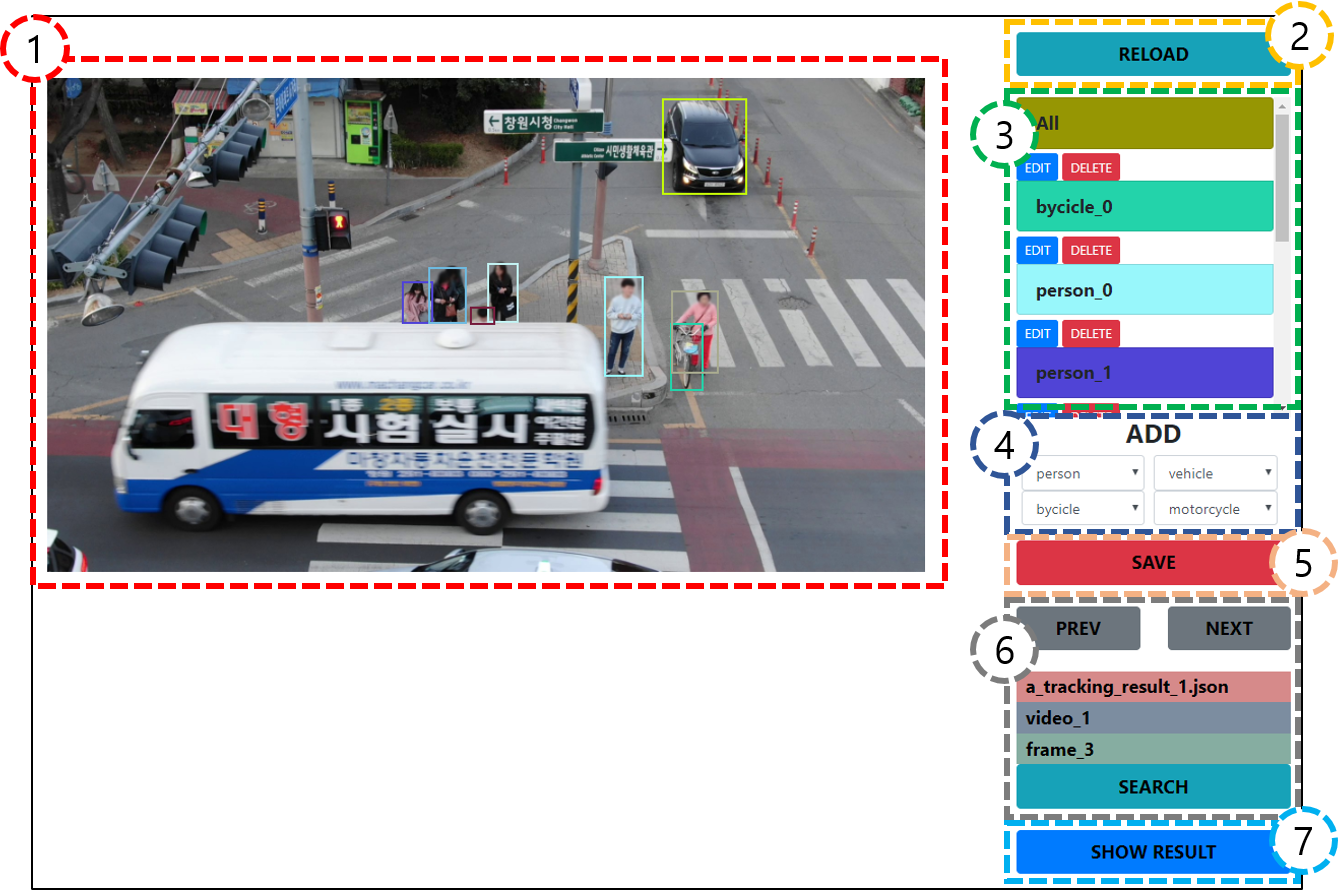
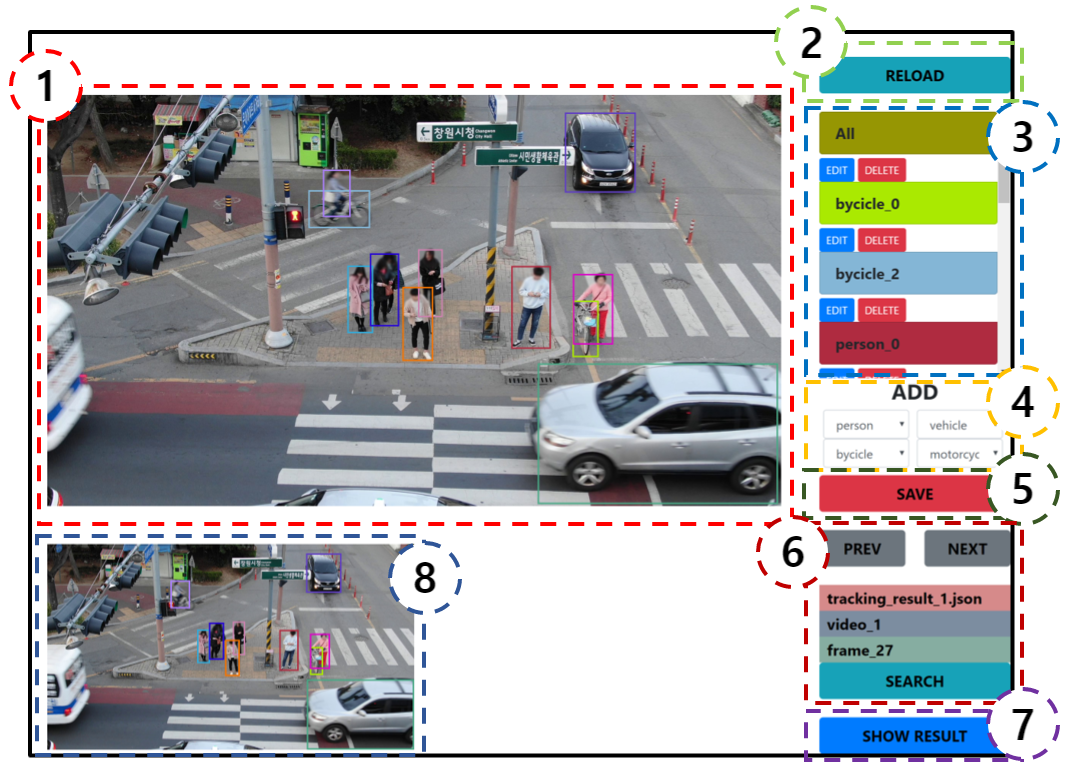
update 1

diff --git a/templates/index.html b/templates/index.html
@@ -1,12 +1,27 @@
 <html>
     <style>
         #content{
+            width: 100%;
             margin-top: 30px;
-            margin-left: 200px;
+            margin-left: 10px;
+        }
+        #imgcontent{
+            width:960px;
         }
         #canvas {
             width: 960px;
             height: 540px;
+           z-index:0;
+           background-repeat: no-repeat;
+           background-size: contain;
+            margin-top: 50px;
+            margin-left: 10px;
+            float:left;
+           }
+
+        #pre_canvas {
+            width: 480px;
+            height: 270px;
            z-index:0;
            background-repeat: no-repeat;
            background-size: contain;
@@ -20,11 +35,11 @@
             z-index:2;
         }
         #sidebar {
-            width:300px;
+            width:250px;
             height: 540px;
-            float:left;
-            
-            margin-left:100px;
+            position: absolute; /*or fixed*/
+            right: 0px;
+            margin-left:20px;
         }
         #detections {
             height:350px;
@@ -43,7 +58,7 @@
 
         #mainselection {
             overflow:hidden;
-            width:350px;
+            width:100%;
             background: rgb(214, 138, 138) ;
         }
 
@@ -54,83 +69,89 @@
 
     </style>
 <link rel="stylesheet" href="https://maxcdn.bootstrapcdn.com/bootstrap/4.0.0/css/bootstrap.min.css" integrity="sha384-Gn5384xqQ1aoWXA+058RXPxPg6fy4IWvTNh0E263XmFcJlSAwiGgFAW/dAiS6JXm" crossorigin="anonymous">
+
 <div id="content">
+    <div id="imgcontent">
         <div id="canvas">
         </div>
 
-        <div id="sidebar">
-            <button class="btn btn-lg btn-info" onclick="reload()" style="width: 100%;color:black;font-weight: bold;">RELOAD</button>
-            <br><br>
-            
-            <div class="list-group" id="detections">
-                <div style="margin-bottom: 5px;">
-                    <p id="all_item" onclick="activate_all()" class="list-group-item" style="background-color:rgb(150, 150, 3);">All</p>
-                </div>
-                {% for detection in detections %}
-                <div id="{{detection[5]}}_item_div" style="margin-bottom: 5px;">
-                    <button class="btn btn-sm btn-primary" onclick="modify_bbox('{{detection[5]}}')">EDIT</button>
-                    <button class="btn btn-sm btn-danger" onclick="del_bbox('{{detection[5]}}')">DELETE</button>
-                    <p id="{{detection[5]}}_item" onclick="activate_tid('{{detection[5]}}', {{detection[6]}})" class="list-group-item" data-box="{{detection[6]}}">
-                        <span style="background-color:rgb({{detection[6][0]}}, {{detection[6][1]}}, {{detection[6][2]}});">{{detection[5]}}</span>
-                    </p>
-                </div>
-                {% endfor %}
-            </div>
-            
-            <h3 style="font-weight: bold; text-align: center;">ADD</h3>
-            {% for tid_type in tid_types %}
-            <div style="width: 45%;float:left;margin-left:5px; margin-right: 5px;">
-                <select class="form-control" id="{{tid_type}}_select" onchange="add_bbox('{{tid_type}}')" style="width:100%;">
-                    <option disabled selected value>{{tid_type}}</option>
-                    <option value="{{tid_type}}_new">{{tid_type}}_new</option>
-                    {% for i in tid_types[tid_type] %}
-                        <option value="{{i}}">{{i}}</option>
-                    {% endfor %}
-                </select>
-            </div>
-            {% endfor %}
-            <br><br>
-            
-            <button class="btn btn-lg btn-danger" onclick="save()" style="width: 100%;color:black;font-weight: bold;margin-top: 10px;">SAVE</button>
-            <br><br>
-
-            <button class="btn btn-lg btn-secondary" onclick="prev()" style="width: 45%;color:black;font-weight: bold;">PREV</button>
-            <button class="btn btn-lg btn-secondary" onclick="next()" style="width: 45%;color:black;font-weight: bold;float:right">NEXT</button>
-            <br><br>
-            
-            <div id="mainselection" style="width:300px;">
-                <select id="json_selection" onchange="jsonChanged()" style="width: 100%;">
-                <option disabled selected value>Json File</option>
-                {% for i in json_list%}
-                <option value="{{i}}">{{i}}</option>
-                {% endfor %}
-                </select>
-            </div>
-
-            <div id="mainselection" style="width:300px;background: rgb(124, 141, 160)">
-                <select id="vidx_selection" style="width: 100%;">
-                <option disabled selected value>Video Idx</option>
-                {% for i in vidx_list%}
-                <option value="{{i}}">video_{{i}}</option>
-                {% endfor %}
-                </select>
-            </div>
-
-            <div id="mainselection" style="width:300px;background: rgb(134, 173, 161)">
-                <select id="fidx_selection" style="width: 100%;">
-                <option disabled selected value>frame Idx</option>
-                {% for i in fidx_list%}
-                <option value="{{i}}">frame_{{i}}</option>
-                {% endfor %}
-                </select>
-            </div>
-
-            <button class="btn btn-lg btn-info" onclick="search_json_vidx_fidx()" style="width: 100%;color:black;font-weight: bold;">SEARCH</button>
-            <br><br>
-
-            <button class="btn btn-lg btn-primary" onclick="location.href='/fin?json={{jsonfile}}&vidx={{vidx}}'" style="width: 100%;color:black;font-weight: bold;">SHOW RESULT</button>
+        <div id="pre_canvas">
         </div>
     </div>
+        
+    <div id="sidebar">
+        <button class="btn btn-lg btn-info" onclick="reload()" style="width: 100%;color:black;font-weight: bold;">RELOAD</button>
+        <br><br>
+        
+        <div class="list-group" id="detections">
+            <div style="margin-bottom: 5px;">
+                <p id="all_item" onclick="activate_all()" class="list-group-item" style="background-color:rgb(150, 150, 3);">All</p>
+            </div>
+            {% for detection in detections %}
+            <div id="{{detection[5]}}_item_div" style="margin-bottom: 5px;">
+                <button class="btn btn-sm btn-primary" onclick="modify_bbox('{{detection[5]}}')">EDIT</button>
+                <button class="btn btn-sm btn-danger" onclick="del_bbox('{{detection[5]}}')">DELETE</button>
+                <p id="{{detection[5]}}_item" onclick="activate_tid('{{detection[5]}}', {{detection[6]}})" class="list-group-item" data-box="{{detection[6]}}">
+                    <span style="background-color:rgb({{detection[6][0]}}, {{detection[6][1]}}, {{detection[6][2]}});">{{detection[5]}}</span>
+                </p>
+            </div>
+            {% endfor %}
+        </div>
+        
+        <h3 style="font-weight: bold; text-align: center;">ADD</h3>
+        {% for tid_type in tid_types %}
+        <div style="width: 45%;float:left;margin-left:5px; margin-right: 5px;">
+            <select class="form-control" id="{{tid_type}}_select" onchange="add_bbox('{{tid_type}}')" style="width:100%;">
+                <option disabled selected value>{{tid_type}}</option>
+                <option value="{{tid_type}}_new">{{tid_type}}_new</option>
+                {% for i in tid_types[tid_type] %}
+                    <option value="{{i}}">{{i}}</option>
+                {% endfor %}
+            </select>
+        </div>
+        {% endfor %}
+        <br><br>
+        
+        <button class="btn btn-lg btn-danger" onclick="save()" style="width: 100%;color:black;font-weight: bold;margin-top: 10px;">SAVE</button>
+        <br><br>
+
+        <button class="btn btn-lg btn-secondary" onclick="prev()" style="width: 45%;color:black;font-weight: bold;">PREV</button>
+        <button class="btn btn-lg btn-secondary" onclick="next()" style="width: 45%;color:black;font-weight: bold;float:right">NEXT</button>
+        <br><br>
+        
+        <div id="mainselection">
+            <select id="json_selection" onchange="jsonChanged()" style="width: 100%;">
+            <option disabled selected value>Json File</option>
+            {% for i in json_list%}
+            <option value="{{i}}">{{i}}</option>
+            {% endfor %}
+            </select>
+        </div>
+
+        <div id="mainselection" style="background: rgb(124, 141, 160)">
+            <select id="vidx_selection" style="width: 100%;">
+            <option disabled selected value>Video Idx</option>
+            {% for i in vidx_list%}
+            <option value="{{i}}">video_{{i}}</option>
+            {% endfor %}
+            </select>
+        </div>
+
+        <div id="mainselection" style="background: rgb(134, 173, 161)">
+            <select id="fidx_selection" style="width: 100%;">
+            <option disabled selected value>frame Idx</option>
+            {% for i in fidx_list%}
+            <option value="{{i}}">frame_{{i}}</option>
+            {% endfor %}
+            </select>
+        </div>
+
+        <button class="btn btn-lg btn-info" onclick="search_json_vidx_fidx()" style="width: 100%;color:black;font-weight: bold;">SEARCH</button>
+        <br><br>
+
+        <button class="btn btn-lg btn-primary" onclick="location.href='/fin?json={{jsonfile}}&vidx={{vidx}}'" style="width: 100%;color:black;font-weight: bold;">SHOW RESULT</button>
+    </div>
+</div>
     
 <script>
 
@@ -139,6 +160,7 @@ if("{{ error_message }}" !== ""){
 }
 
 var canvas = document.getElementById('canvas');
+var pre_canvas = document.getElementById('pre_canvas');
 //var detections = [[961.1323242188, 403.7423095703, 1027.7508544922, 533.9088134766, 'person_2', [112, 182, 110]], [1209.5654296875, 437.4125976562, 1304.0356445312, 660.2440185547, 'person_0', [1, 238, 179]]];
 {% autoescape false %}
 var detections = {{detections}};
@@ -150,6 +172,16 @@ var selected_tid = -1;
 
 detectionsDraw(canvas, detections);
 initDraw(canvas);
+
+if (pre_detections !== 'None'){
+    {% autoescape false %}
+    var pre_detections = {{pre_detections}};
+    {% endautoescape %}
+    pre_canvas.style.backgroundImage="url('{{pre_img_name}}')";
+    pre_detectionsDraw(pre_canvas, pre_detections);
+}
+
+
 set_select("{{jsonfile}}", "{{vidx}}", "{{fidx}}");
 
 function reload(){
@@ -320,6 +352,23 @@ function detectionsDraw(canvas, detections){
         activate_all();
         document.getElementById('{{tid}}_item').onclick();
     }
+}
+
+function pre_detectionsDraw(pre_canvas, pre_detections){
+    pre_detections.forEach(function (item, index, array){
+        element = document.createElement('div');
+        element.className = 'rectangle';
+        element.id = "pre_" + item[5];
+        element.style.left = item[0]/4 + pre_canvas.offsetLeft + 'px';
+        element.style.top = item[1]/4 + pre_canvas.offsetTop + 'px';
+        element.style.width = item[2]/4 - item[0]/4 + 'px';
+        element.style.height = item[3]/4 - item[1]/4 + 'px';
+        element.style.border = "2px solid rgb("+item[6][0]+","+item[6][1]+","+item[6][2]+")";
+        element.style.zindex = 1;
+
+        pre_canvas.appendChild(element)
+        pre_canvas.style.cursor = "crosshair";
+    });
 }
 
 function initDraw(canvas) {

diff --git a/module/tagging.py b/module/tagging.py
@@ -201,20 +201,16 @@ class Tagging():
         
         return color
 
-    def get_data(self):
+    def extract_data_from_json(self, data):
         """
-        get processed data of self.current
-        the processed data should be not object of self.json_data
+        extract data from json format data
 
-        return current, json_filename, vidx, fidx, self.tid_types, error_message, image_path, detections for visualization
-            current, vidx, fidx -> int
-            json_filename, image_path, error_message -> string
-            self.tid_types -> dictionary
-            detections -> [[x1, y1, x2, y2, score, tid, color], ... ]
+        argument data
+            data -> dictionary
+        return image_path, processed_detections
+            image_path -> string
+            processed_detections -> [[x1, y1, x2, y2, score, tid, color], ... ]
         """
-        data = self.json_data[self.current]
-
-        # generate sorted new processed_detections for preventing call by object reference
         processed_detections = []
         for detection in data["detections"]:
             color = self.get_color_using_tid(detection)
@@ -223,10 +219,30 @@ class Tagging():
 
         # this line should be modified when the data["frame_path"] format is changed
         image_path = self.img_folder_name + "/".join(data["frame_path"].split("/")[-2:])
+
+        return image_path, processed_detections
+
+    def get_data(self):
+        """
+        get processed data of self.current
+        the processed data should be not object of self.json_data
+        get data(image, detections) of self.current - 1 for visualization
+
+        return current, json_filename, vidx, fidx, self.tid_types, error_message, image_path, processed_detections, pre_processed_detections, pre_image_path for visualization
+            current, vidx, fidx -> int
+            json_filename, image_path, pre_image_path, error_message -> string
+            self.tid_types -> dictionary
+            processed_detections, pre_processed_detections -> [[x1, y1, x2, y2, score, tid, color], ... ]
+        """
+        data = self.json_data[self.current]
+        pre_data = self.json_data[self.current-1] if self.current != 0 else []
         
+        pre_image_path, pre_processed_detections = self.extract_data_from_json(pre_data) if pre_data else ['None', []]
+        
+        image_path, processed_detections = self.extract_data_from_json(data)
         error_message = "" if os.path.isfile(image_path) else "image file does not exist"
 
-        return [self.current, self.json_filename, self.vidx, self.fidx, self.tid_types, error_message], [image_path, processed_detections]
+        return [self.current, self.json_filename, self.vidx, self.fidx, self.tid_types, error_message], [image_path, processed_detections], [pre_image_path, pre_processed_detections]
 
     def cal_new_tidx(self, new_detection):
         """
@@ -352,7 +368,7 @@ class Tagging():
 
             if not (os.path.isdir(directory_path)):
                 os.mkdir(directory_path)
-            
+
             image_path_list = [(self.get_image_path(directory_path, detection, data["frame_idx"], data["frame_path"]), str(data["frame_idx"]))
                 for data in self.json_data if data["video_idx"] == self.vidx
                     for detection in data["detections"]

diff --git a/app.py b/app.py
@@ -65,14 +65,15 @@ def index():
             error_message = "error: check url"
             json_filename, vidx, fidx = tagging.set_info()
 
-    info, data = tagging.get_data()
+    info, data, pre_data = tagging.get_data()
     """
     info -> [current, json_filename, vidx, fidx, tid_types, error_message]
     data -> [image_path, detections]
+    pre_data -> [pre_image_path, pre_detections]
         current, vidx, fidx -> int
-        json_filename, image_path, error_message -> string
+        json_filename, image_path, pre_image_path, error_message -> string
         tid_types -> dictionary
-        detections -> [[x1, y1, x2, y2, score, tid, color], ... ]
+        detections, pre_detections -> [[x1, y1, x2, y2, score, tid, color], ... ]
     """
 
     error_message = info[5] if info[5] != "" else error_message
@@ -85,6 +86,7 @@ def index():
     return render_template(
         'index.html',
         img_name=data[0], detections=data[1],
+        pre_img_name=pre_data[0], pre_detections=pre_data[1],
         jsonfile=info[1], vidx=info[2], fidx=info[3], tid=tid,
         json_list=json_list, vidx_list=vidx_list, fidx_list=fidx_list,
         tid_types=info[4],

diff --git a/README.md b/README.md
@@ -37,7 +37,7 @@ $ python run.py
 
 ## How to use
 ### 기능
-* 현재 Frame, Tagging된 Bounding Box 시각화
+* 현재/이전 Frame, Tagging된 Bounding Box 시각화
 * json 파일, Video ID, Frame ID를 이용한 Frame 검색
 * 기존 Bounding Box 수정 및 삭제
 * 새로운 Bounding Box 생성
@@ -80,6 +80,8 @@ $ python run.py
 7. Show result 버튼
 	- /fin 으로 redirect
     - Tagging 된 Tracking ID의 Frame 별 이미지 시각화
+8. 이전 Frame 이미지와 Tagging된 Bounding Box
+	- 바로 이전 Frame 이미지를 시각화하여 현재 Frame과 비교 가능
 
 ### /fin
 ![fin](https://github.com/zum-lab/tracking_tagging_tool/blob/master/PNG/fin.png)
